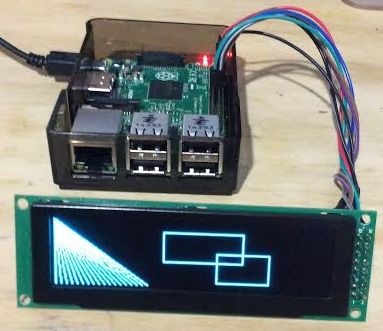
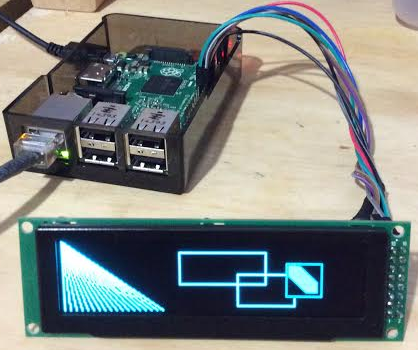
Added windowing system

diff --git a/pi/OLED.py b/pi/OLED.py
@@ -75,9 +75,6 @@ class OLED:
         self.Write_Instruction(0xA6) # normal display 
         self.Clear_ram()
         self.Write_Instruction(0xAF) # display ON
-        
-        # Make and clear the screen buffer
-        self.screenBuffer = [0]*8192
 
     def resetOLED(self):
         GPIO.output(25,False) # Activate reset
@@ -109,85 +106,33 @@ class OLED:
             for x in xrange(120):
                 self.Write_Data(0x00)   
     
+    def set_data_window(self,x,y,width,height):
+        
+        x = x / 4 # Column address is 4-pixel-groups (2 bytes)
+                  # Pass in x=0,4,8, etc
+                  
+        width = width / 4 # With limited to 4-pixel increments
+                          # Pass in width=4,8, etc
+        
+        self.Write_Instruction(0x75)
+        self.Write_Data(y)
+        self.Write_Data(y+height-1)
+        
+        self.Write_Instruction(0x15) 
+        self.Write_Data(0x1C+x)
+        self.Write_Data(0x1C+x+width-1)        
+        
+        
     def Set_Row_Address(self,add):
         self.Write_Instruction(0x75) # SET SECOND PRE-CHARGE PERIOD 
         add = 0x3f & add
         self.Write_Data(add)
         self.Write_Data(0x3f)
-    
+            
     def Set_Column_Address(self,add):
         add = 0x3f & add
         self.Write_Instruction(0x15) # SET SECOND PRE-CHARGE PERIOD  
         self.Write_Data(0x1c+add)
-        self.Write_Data(0x5b)
-    
-    def draw_screen_buffer(self):
-        self.Set_Row_Address(0)
-        self.Set_Column_Address(0)
-        self.Write_Instruction(0x5c)
+        self.Write_Data(0x5b)   
+     
         
-        for m in xrange(8192):
-            self.Write_Data(self.screenBuffer[m])
-        
-    def set_pixel(self,x,y,color):
-        color = color & 0x0F
-        ofs = y * 128 # 128 bytes (256 pixels) per row
-        ofs = ofs + x/2 # 2 pixels per byte across row
-        if x%2 ==0: # even
-            v = self.screenBuffer[ofs] & 0x0F
-            v = v | (color<<4)
-        else:
-            v = self.screenBuffer[ofs] & 0xF0
-            v = v | color
-        self.screenBuffer[ofs] = v     
-        
-    def draw_line(self,start, end,color):
-        """Bresenham's Line Algorithm       
-        """
-        # Setup initial conditions
-        x1, y1 = start
-        x2, y2 = end
-        dx = x2 - x1
-        dy = y2 - y1
-     
-        # Determine how steep the line is
-        is_steep = abs(dy) > abs(dx)
-     
-        # Rotate line
-        if is_steep:
-            x1, y1 = y1, x1
-            x2, y2 = y2, x2
-     
-        # Swap start and end points if necessary and store swap state
-        if x1 > x2:
-            x1, x2 = x2, x1
-            y1, y2 = y2, y1
-     
-        # Recalculate differentials
-        dx = x2 - x1
-        dy = y2 - y1
-     
-        # Calculate error
-        error = int(dx / 2.0)
-        ystep = 1 if y1 < y2 else -1
-     
-        # Iterate over bounding box generating points between start and end
-        y = y1
-        points = []
-        for x in range(x1, x2 + 1):
-            coord = (y, x) if is_steep else (x, y)
-            #
-            self.set_pixel(coord[0],coord[1],color)
-            #
-            error -= abs(dy)
-            if error < 0:
-                y += ystep
-                error += dx       
-    
-    def draw_rectangle(self,x,y,width,height, color):
-        for xx in xrange(width):
-            self.set_pixel(x+xx,y,color)
-            self.set_pixel(x+xx,y+height-1, color)
-        for yy in xrange(height):
-            self.set_pixel(x,y+yy,color)
-            self.set_pixel(x+width-1,y+yy,color)

diff --git a/pi/OLEDWindow.py b/pi/OLEDWindow.py
@@ -1,0 +1,90 @@
+class OLEDWindow:
+    
+    # A window area on the OLED screen. The OLED hardware allows
+    # you to set the data cursor to respect row/column boundaries.
+    # Thus writes automatically scroll inside a smaller window. That
+    # makes this class easy to implement.
+    #
+    # X coordinates and WIDTH values must be multiples of 4 pixels. This
+    # is a hardware constraint.
+    
+    def __init__(self, oled, x, y, width, height):
+        # x and width must be multiples of 4
+        self.x = x
+        self.y = y
+        self.width = (width/4)*4
+        self.height = height
+        self.oled = oled
+        # Make and clear the screen buffer
+        self.screenBuffer = [0]*(width/2)*height
+        
+    def draw_screen_buffer(self):
+        self.oled.set_data_window(self.x,self.y,self.width,self.height)        
+        self.oled.Write_Instruction(0x5c)        
+        for m in xrange(len(self.screenBuffer)):
+            self.oled.Write_Data(self.screenBuffer[m])
+        
+    def set_pixel(self,x,y,color):
+        color = color & 0x0F
+        ofs = y * self.width/2
+        ofs = ofs + x/2 # 2 pixels per byte across row
+        if x%2 ==0: # even
+            v = self.screenBuffer[ofs] & 0x0F
+            v = v | (color<<4)
+        else:
+            v = self.screenBuffer[ofs] & 0xF0
+            v = v | color
+        self.screenBuffer[ofs] = v     
+        
+    def draw_line(self,start, end,color):
+        """Bresenham's Line Algorithm       
+        """
+        # Setup initial conditions
+        x1, y1 = start
+        x2, y2 = end
+        dx = x2 - x1
+        dy = y2 - y1
+     
+        # Determine how steep the line is
+        is_steep = abs(dy) > abs(dx)
+     
+        # Rotate line
+        if is_steep:
+            x1, y1 = y1, x1
+            x2, y2 = y2, x2
+     
+        # Swap start and end points if necessary and store swap state
+        if x1 > x2:
+            x1, x2 = x2, x1
+            y1, y2 = y2, y1
+     
+        # Recalculate differentials
+        dx = x2 - x1
+        dy = y2 - y1
+     
+        # Calculate error
+        error = int(dx / 2.0)
+        ystep = 1 if y1 < y2 else -1
+     
+        # Iterate over bounding box generating points between start and end
+        y = y1
+        points = []
+        for x in range(x1, x2 + 1):
+            coord = (y, x) if is_steep else (x, y)
+            #
+            self.set_pixel(coord[0],coord[1],color)
+            #
+            error -= abs(dy)
+            if error < 0:
+                y += ystep
+                error += dx       
+    
+    def draw_rectangle(self,x,y,width,height, color):
+        for xx in xrange(width):
+            self.set_pixel(x+xx,y,color)
+            self.set_pixel(x+xx,y+height-1, color)
+        for yy in xrange(height):
+            self.set_pixel(x,y+yy,color)
+            self.set_pixel(x+width-1,y+yy,color)
+           
+    

diff --git a/pi/test.py b/pi/test.py
@@ -1,13 +1,26 @@
 from OLED import OLED
+from OLEDWindow import OLEDWindow
 
+# The OLED hardware driver
 oled = OLED()
 
-for x in xrange(18):
-    oled.draw_line((0,0),(x*5,63),0xFF)
-    
-oled.draw_rectangle(100,10,75,30, 0xFF)
-oled.draw_rectangle(150,30,50,30, 0xFF)
-        
-oled.draw_screen_buffer()
+# Two windows on the screen. One is the entire screen. The
+# other is a small square over to the right
+window_one = OLEDWindow(oled,0,0,256,64)
+window_two = OLEDWindow(oled,256-64,20,32,32)
 
+for x in xrange(18):
+    window_one.draw_line((0,0),(x*5,63),0x0F)    
+window_one.draw_rectangle(100,10,75,30, 0x0F)
+window_one.draw_rectangle(150,30,50,30, 0x0F)
+#
+window_one.draw_screen_buffer()
+
+# Draw second window on top of first
+
+window_two.draw_rectangle(0,0,31,31,0x04)
+for x in xrange(16):
+    window_two.draw_rectangle(x+2,x+2,10,10,0x04)
+#    
+window_two.draw_screen_buffer()
 

diff --git a/README.md b/README.md
@@ -70,11 +70,16 @@ These photographs of the running display (pardon the poor quality) show several 
 
 ## Screen Buffer
 
-The OLED.py module contains the OLED class, which keeps an 8K byte screen buffer. You fill the buffer with your
-graphics using methods like "set_pixel", "draw_line", and "draw_rectangle". Then call "draw_screen_buffer" to
-copy the buffer to the display.
+The OLED.py module contains the OLED class that drives the OLED hardware.
 
-Updating the whole screen takes over a second. Next up is to allow the driver to work with smaller "windows"
-of the screen. I also need to make general text facilities.
+The OLEDWindow.py module contains a window implementation over the OLED object. You pass in the OLED
+driver object and the window parameters (x,y,width,height). The OLEDWindow object keeps a screen
+buffer for the defined window and draws it on the OLED hardware when prompted.
+
+You fill the windows with your graphics and draw the windows in the order you want them drawn on top of
+each other. There is no transparency between windows.
+
+You fill the window with your graphics using methods like "set_pixel", "draw_line", and 
+"draw_rectangle". Then call "draw_screen_buffer" to copy the buffer to the display.
 
 ![](https://github.com/topherCantrell/ER-OLEDM032-1/blob/master/raster.png)

diff --git a/journal/README.md b/journal/README.md
@@ -7,7 +7,8 @@ I had moved the jumpers on the back of the display to "8080 Parallel" for a prop
 I got the OLED.py class working. It implements an 8K screen buffer and a few X,Y,COLOR based drawing functions. Once the buffer is setup you call "draw_screen_buffer" to refresh the entire RAM. This takes over one second. The serial
 solution is terribly slow. I am hoping the parallel/Propeller version will be fast.
 
-TODO: Investigate the row/column addressing. That may help with windows.
+Turns out you can tell the OLED about the window (x,y,width,height) you are filling data into and it will advance the data cursor through RAM appropriately. That made the window implementation trivial.
+
 TODO: Add a general text library with text pictures
 TODO: make a Propeller (parallel) version
 
